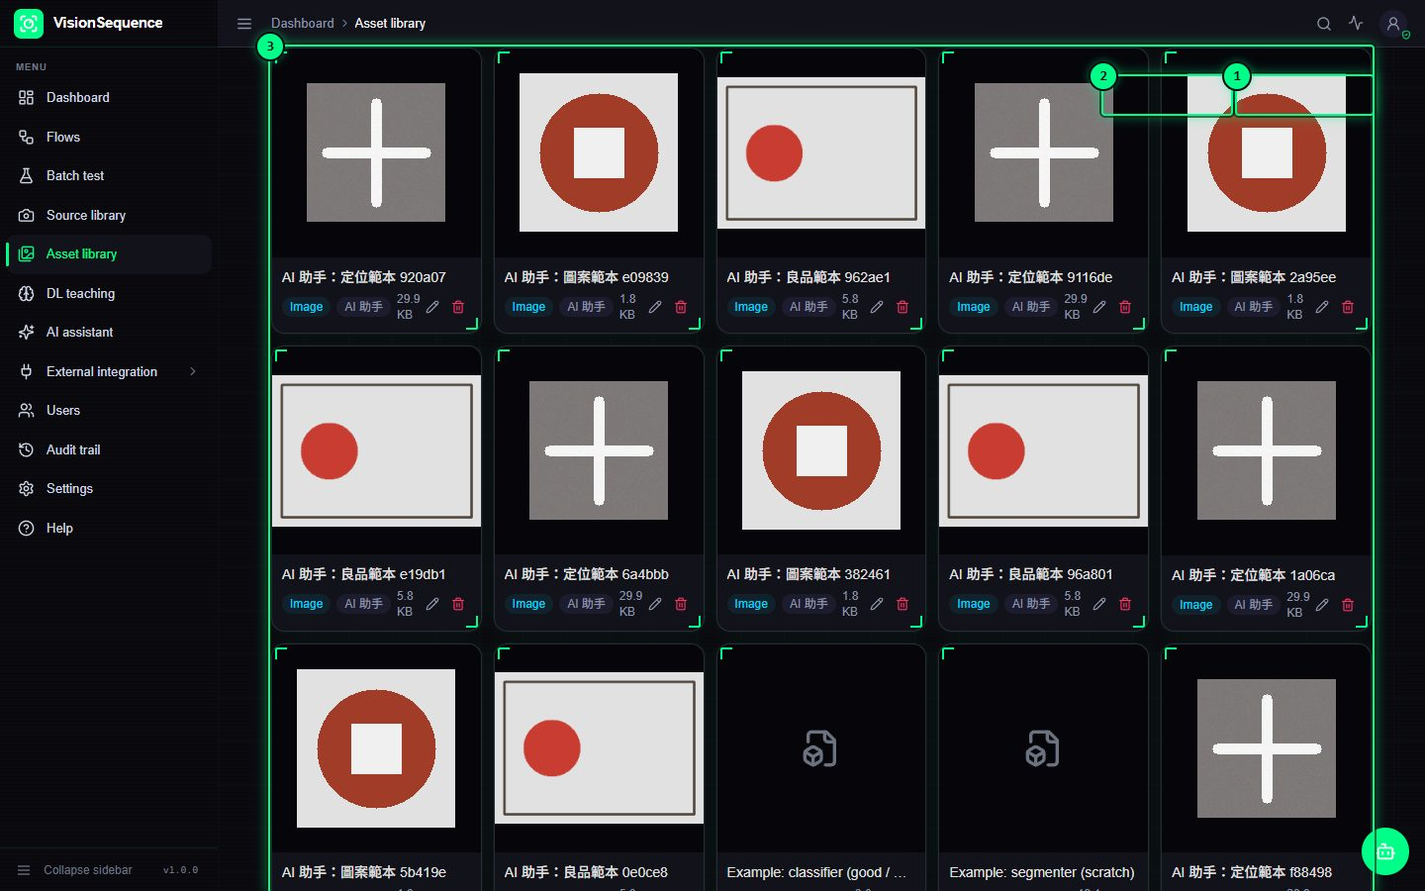
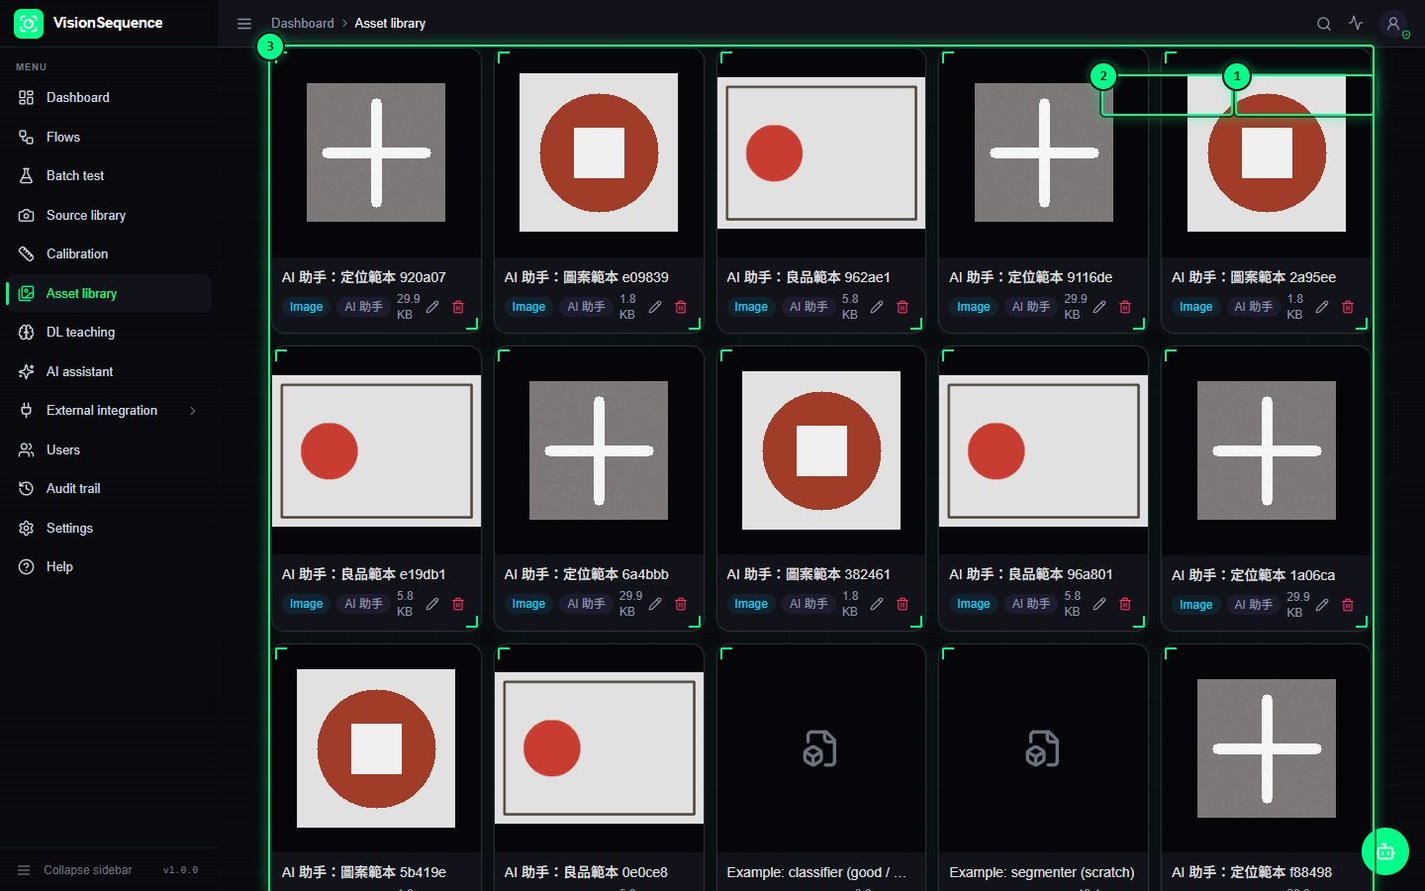
[VisionSequence] 標定 3/3 文件：使用者手冊加標定一節（含截圖與編號標記），檢測功能頁把畸變標定從「未實作」改成已做。
為什麼：手冊是圖文並用的，新頁面沒有圖就對不上；檢測功能頁還寫著「鏡頭畸變標定留給外掛或之後的版本」，
現在已經內建了，留著會誤導。

做了什麼：
- docs/user-guide.html §10-2「Calibration」：截圖＋7 個編號標記，說明三種做法各適合什麼情況、
  為什麼要先看誤差再存、標點會自動吸附、一份標定同時餵三個工具（重新標定整站流程一起更新）、
  相機動過要重標、解析度不同會自動換算內參。
- docs/vision-capabilities.html §3 加兩列（鏡頭畸變標定、影像到真實座標）；§4 原本「畸變標定未實作」那一條
  改成講清楚真正沒做的是「相機裝在機械手上的手眼標定」以及為什麼那屬於機械手程式。
- scripts/docs_shots.mjs 加標定頁那一張，callouts 清單同步；重跑截圖（側欄多了一項，每頁都要重拍）。
  lock-banner 那張需要第二位管理員鎖住引擎，這次沒帶 VS_TOKEN2 所以沿用舊圖，清單保留該行。
- README 與 CLAUDE.md 的規模數字更新（72 工具／191 端點／19 頁／後端 636＋前端 97 測試），
  CLAUDE.md 新增「標定」與「格式化回覆」兩個小節，記下 payload 是唯一事實來源、最小平方不用 RANSAC、
  每點殘差是與 VM 的主要差異、內參隨影像尺寸換算、solve 只算不存這些接縫。

驗證：scripts/docs_style.py 重跑並 --check 回 0；截圖以 1440x900 產生並確認標定頁的 7 個標記都對到元件。

Changed region(s): [[0.0, 0.28, 0.125, 0.4667], [0.0, 0.4978, 0.0625, 0.56], [0.0, 0.5911, 0.0625, 0.6533]]

diff --git a/VisionSequence/docs/user-guide.html b/VisionSequence/docs/user-guide.html
@@ -144,7 +144,7 @@
 </head>
 <body>
 <nav class="site"><a href="index.html">Overview</a><a href="user-guide.html" aria-current="page">User guide</a><a href="workflow-design.html">Workflow design</a><a href="architecture.html">Architecture</a><a href="automation.html">Automation</a><a href="modbus.html">Modbus</a><a href="capture-client.html">Capture client</a><a href="deployment.html">Deployment</a><a href="dl.html">Deep learning</a><a href="agent.html">AI assistant</a><a href="batch.html">Batch testing</a><a href="golden.html">Golden Set</a><a href="vision-capabilities.html">Inspection capabilities</a><a href="samples.html">Example templates</a><a href="performance.html">Performance</a><a href="plugins.html">Plugins</a><a href="contract.html">Contract</a><a href="glossary.html">Glossary</a></nav>
-<div class="doc-layout"><aside class="toc" aria-label="本頁目錄"><p class="toc-title">本頁目錄</p><ul><li><a href="#shell">1. Getting around</a><ul><li><a href="#another-pc">1-1. Using the station from another PC</a></li></ul></li><li><a href="#login">2. Signing in, roles and permissions</a></li><li><a href="#flows">3. The Flows page and templates</a></li><li><a href="#editor">4. The flow editor</a></li><li><a href="#tool">5. The tool page and ROIs</a></li><li><a href="#teach">6. The teach page, on-site parameters and recipes</a></li><li><a href="#run">7. Preview, run, continuous and statistics</a></li><li><a href="#batch">8. Batch testing</a></li><li><a href="#golden">9. The Golden Set</a></li><li><a href="#sources">10. Image sources</a><ul><li><a href="#sources-capture">When the camera is on another PC, or needs a Basler or IDS SDK</a></li></ul></li><li><a href="#assets">11. Assets</a></li><li><a href="#dl">12. Deep-learning teaching</a></li><li><a href="#agent">13. The AI assistant page: a flow from an image</a></li><li><a href="#assistant">14. The global assistant (on every page)</a></li><li><a href="#integration">15. Integration</a></li><li><a href="#lock">16. The engine lock</a></li><li><a href="#admin">17. Audit trail, settings and help</a></li><li><a href="#faq">18. Common questions</a></li></ul></aside><article class="doc">
+<div class="doc-layout"><aside class="toc" aria-label="本頁目錄"><p class="toc-title">本頁目錄</p><ul><li><a href="#shell">1. Getting around</a><ul><li><a href="#another-pc">1-1. Using the station from another PC</a></li></ul></li><li><a href="#login">2. Signing in, roles and permissions</a></li><li><a href="#flows">3. The Flows page and templates</a></li><li><a href="#editor">4. The flow editor</a></li><li><a href="#tool">5. The tool page and ROIs</a></li><li><a href="#teach">6. The teach page, on-site parameters and recipes</a></li><li><a href="#run">7. Preview, run, continuous and statistics</a></li><li><a href="#batch">8. Batch testing</a></li><li><a href="#golden">9. The Golden Set</a></li><li><a href="#sources">10. Image sources</a><ul><li><a href="#sources-capture">When the camera is on another PC, or needs a Basler or IDS SDK</a></li><li><a href="#calibration">10-2. Calibration: millimetres, lens distortion and robot coordinates</a></li></ul></li><li><a href="#assets">11. Assets</a></li><li><a href="#dl">12. Deep-learning teaching</a></li><li><a href="#agent">13. The AI assistant page: a flow from an image</a></li><li><a href="#assistant">14. The global assistant (on every page)</a></li><li><a href="#integration">15. Integration</a></li><li><a href="#lock">16. The engine lock</a></li><li><a href="#admin">17. Audit trail, settings and help</a></li><li><a href="#faq">18. Common questions</a></li></ul></aside><article class="doc">
 
 <h1>User guide</h1>
 <p>This guide follows the sidebar from top to bottom: where each page is, what is on it, and what to press. Every section opens with a screenshot; the numbered markers on the picture match the numbered list under it. The screenshots show the English interface; the Chinese interfaces have the same layout with translated labels. The Help page inside the product carries a condensed version of the same material plus the tool catalogue.</p>
@@ -326,6 +326,23 @@
 <h3 id="sources-capture">When the camera is on another PC, or needs a Basler or IDS SDK</h3>
 <p>You do not have to move the camera to the server. Use "Download capture client", unzip and run <code>VisionSequenceCapture.exe</code> on the camera's PC, fill in the server address (port 9100) and a client name under Connection, then add the camera as a channel, open it and start acquiring (you can draw an ROI on the preview to send only that region, and adjust and save camera parameters). Back in the web interface, add a source of kind "capture client camera", pick the client and the channel, choose "on demand" (a fresh frame for every run) or "continuous stream", and press Test grab before saving. The status column shows whether the client is online, its fps and the age of the last frame; Integration › Capture client lists every connected client and lets you turn streaming on and preview. On the same machine it uses shared memory automatically; across machines it is lossless over TCP. "Capture client offline" in the list means the program is not connected. Details in <a href="capture-client.html">Capture client</a>.</p>
 <p><strong>A capture client camera times out during a run</strong>: first check on the client that the channel says it is acquiring and the preview is live. A camera in trigger mode needs a trigger signal. With a long exposure, or across a network, increase the source's timeout in milliseconds. Turning off "require a fresh frame" lets it use whatever frame the client already has.</p>
+
+<h3 id="calibration">10-2. Calibration: millimetres, lens distortion and robot coordinates</h3>
+<figure class="shot"><img src="img/calibration.jpg" alt="The Calibration page"><figcaption><b>Calibration</b> (sidebar &rsaquo; Calibration, route <code>/calibration</code>)
+<ol class="callouts">
+<li data-n="1">The three ways to teach it, and what each one gives you. <strong>Calibration board</strong>: a few pictures of a printed board give the lens correction and the scale together. <strong>Robot points</strong>: mark places in the picture and type the coordinates your robot reports, so a position can be handed straight to the robot. <strong>Known distance</strong>: mark two points, type how far apart they really are, done.</li>
+<li data-n="2">The <strong>image source</strong> to take pictures from; you can also upload photos taken earlier.</li>
+<li data-n="3"><strong>Capture</strong> takes a picture. In board mode every picture is searched for the board straight away and listed with the number of points found, so you see immediately whether that angle worked.</li>
+<li data-n="4">The <strong>board</strong>: pattern, and its size in <em>inner corners</em> (a board of 10 x 7 squares is 9 x 6) plus the spacing between two neighbours. Get these wrong and no board is found; the page says so rather than failing silently.</li>
+<li data-n="5">The <strong>unit</strong> your drawings and your robot use.</li>
+<li data-n="6"><strong>Calculate</strong> works it out but does <em>not</em> save it: you first see how well it fits.</li>
+<li data-n="7"><strong>Save calibration</strong> stores it as an asset. Pick it afterwards in the Lens correction, Real-world coordinates or Pixel calibration step.</li>
+</ol></figcaption></figure>
+<p><strong>Which way to use.</strong> If you only need measurements in millimetres, <em>Known distance</em> takes a minute: mark two points on something you have measured, type the distance. If the lens visibly bows straight edges near the corners, or the same part measures differently in the middle and at the edge of the field, use a <em>calibration board</em> &mdash; take three or more pictures with the board tilted and at different distances, filling the frame. If a robot has to go and pick the part up, use <em>Robot points</em>: jog the robot to three or more spots you can see, and type the coordinates it reports at each one.</p>
+<p><strong>Read the error before you save.</strong> Every method reports how well it fits. A board calibration shows the reprojection error per picture, so you can delete the one that was blurred and calculate again. Robot points show the error of <em>each</em> point, and the worst one is marked red on the image &mdash; usually that is where the robot was jogged to the wrong place or a coordinate was typed wrong. The result carries a plain verdict: good, fair, or do it again.</p>
+<p><strong>Marking points is forgiving.</strong> Click near a hole, a printed dot or a corner and the mark snaps to its centre, so you do not have to hit the exact pixel. Turn that off if you really want the spot you clicked.</p>
+<p><strong>Using it in a flow.</strong> One saved calibration serves all three steps: <em>Lens correction</em> straightens the picture (put it right after the image source, before anything that measures), <em>Pixel calibration</em> in "from a calibration" mode converts a length to millimetres, and <em>Real-world coordinates</em> converts a position to the coordinates your machine works in, along with lengths and angles. Because they all read the same asset, recalibrating the station updates every flow at once &mdash; you do not go hunting for the number typed into each step.</p>
+<p>If the camera is later moved, refocused or swapped, calibrate again. A calibration made at full resolution still works when the flow runs at half resolution: the lens correction is rescaled automatically, and if the aspect ratio differs the step says so instead of quietly correcting the wrong amount.</p>
 
 <h2 id="assets">11. Assets</h2>
 <figure class="shot"><img src="img/assets.jpg" alt="The Asset library"><figcaption><b>Asset library</b> (sidebar › Asset library, route <code>/assets</code>)

diff --git a/VisionSequence/docs/vision-capabilities.html b/VisionSequence/docs/vision-capabilities.html
@@ -198,6 +198,8 @@
 <tr><td>Analytic geometry</td><td><code>distance</code>, <code>angle</code> and <code>geometry</code> (<strong>new</strong>: line intersection, point-to-line distance, midpoint, projection)</td><td>original plus new</td></tr>
 <tr><td>Fitting a line, circle or ellipse</td><td><code>find_line</code>, <code>fit_arc</code> (Taubin plus geometric refinement), <code>fit_ellipse</code> (direct fit)</td><td>original, accuracy improved</td></tr>
 <tr><td>Perspective calibration (flattening)</td><td><code>warp_perspective</code> (four points to a rectangle); scale conversion is <code>calibration</code></td><td><strong>added</strong></td></tr>
+<tr><td>Lens distortion calibration</td><td><code>undistort</code> with a calibration made from board pictures on the Calibration page (intrinsics and distortion coefficients; the camera matrix is rescaled when the running resolution differs)</td><td><strong>added</strong></td></tr>
+<tr><td>Image to real-world coordinates</td><td><code>to_world</code>: positions, lengths and angles into millimetres or robot coordinates, from a board, from image-to-robot point pairs (affine or perspective, least squares with the residual of every point) or from a known distance</td><td><strong>added</strong></td></tr>
 <tr><td>Golden template comparison</td><td><code>defect_diff</code> with phase alignment, plus the Golden Set regression page</td><td>original</td></tr>
 <tr><td>Barcodes (1D, DataMatrix, PDF417)</td><td><code>barcode</code>, using whichever decoder backend is installed</td><td>original</td></tr>
 <tr><td>Classification</td><td><code>dl_classify</code>, trained inside the platform</td><td>original</td></tr>
@@ -210,7 +212,7 @@
 <ul>
 <li><strong>Geometric matching, colour pattern matching, colour location</strong>: large algorithms, and <code>template_match</code> together with the deep-learning tools already covers most of what they are used for. Bring one in as a plugin tool when you need it (<a href="plugins.html">Plugins</a>).</li>
 <li><strong>OCR and character verification, instrument readers (meters, LCDs)</strong>: the modern answer is deep learning — train one on the teaching page, or plug in an OCR engine. <code>text_presence</code> covers the lightweight "is anything printed here" check.</li>
-<li><strong>Non-linear lens distortion calibration (error maps, correction tables)</strong>: this needs a calibration-target workflow. For now <code>warp_perspective</code> handles perspective and <code>calibration</code> handles scale; distortion calibration is left to a plugin or a later release.</li>
+<li><strong>Hand-eye calibration for a moving camera</strong> (camera on the robot arm): the platform calibrates a <em>fixed</em> camera against the plane the parts sit on, which is what an inspection station needs. A camera that travels with the arm needs the robot pose at each shot, so that pairing belongs to the robot program; feed the pairs in as robot points per position, or do it in a plugin.</li>
 <li><strong>Freehand ROIs</strong>: see §1.</li>
 <li><strong>The complex image type</strong>: it exists only inside <code>fft_filter</code> and is not a port type, which keeps the dataflow simple.</li>
 </ul>

diff --git a/VisionSequence/CLAUDE.md b/VisionSequence/CLAUDE.md
@@ -6,13 +6,13 @@
 
 - **是什麼**：類 VisionMaster 的畫布式工業機器視覺平台。使用者在瀏覽器拉工具節點、畫 ROI、調參看結果；PLC／上位機以 HTTP／TCP／Modbus 觸發並取回 OK/NG 與量測值。
 - **技術棧**：Django 5.1 + django-ninja + OpenCV/numpy（後端）；React 19 + Vite + TS + Tailwind v4 + @xyflow/react + TanStack Query + i18next（前端）；SQLite 預設。
-- **規模**：68 個內建工具（8 類）、184 個 API 端點、27 個資料模型、18 個前端頁面（另 6 個整合子頁）、18 頁 docs、後端 515 項＋前端 57 項測試；Python 約 28k 行（不含 migrations；另 vscapture 擷取端約 7.2k 行）、TS 約 26k 行。
+- **規模**：72 個內建工具（8 類）、191 個 API 端點、27 個資料模型、19 個前端頁面（另 7 個整合子頁）、18 頁 docs、後端 636 項＋前端 97 項測試；Python 約 28k 行（不含 migrations；另 vscapture 擷取端約 7.2k 行）、TS 約 26k 行。
 - **核心概念**：
   - 流程 = `Flow.graph`（JSON：nodes/edges）。工具節點有型別化埠；`_flow` 隱含輸入埠＝控制分支、`_overlays` 隱含輸出埠＝該節點標記、`_image` 隱含直通埠＝每個工具預設可把影像原樣傳出。
   - 引擎是**資料流 DAG**：一次 run 在執行緒池的一條執行緒內以拓樸順序跑完，影像以 numpy 在記憶體傳；overlays 只是顯示層 metadata，不畫進影像。
   - **只能有一個 API 行程**（引擎狀態、影像快取、SSE bus 都在行程內）。`manage.py serve` = uvicorn workers=1 + TCP；`runserver` 只用來開發且加 `--noreload`。
   - 三種身分：使用者（登入 token）、整合方（API 金鑰、永遠可執行、可鎖引擎）、bootstrap（沒有任何使用者時放行 `/auth/setup`）。
-- **目錄**：`config/`（settings：`VISION` dict 全部走 .env；`api.py` 掛 Router）、`apps/core`（錯誤、外掛掃描）、`apps/accounts`（身分、鎖定、偏好）、`apps/vision`（models / graph / engine / runner / images / api* / stream / tcp_server / sources / tools / dl / agent / demo）、`apps/comm`（Modbus 等主動輸出）、`apps/golden`（回歸）、`apps/vision/capture`（擷取端 hub／Grabber／API）、`vscapture/`（擷取端桌面程式，不 import Django）、`plugins/`（資料夾外掛）、`frontend/`、`tests/`、`docs/`、`scripts/`（dev.ps1／stop.ps1／bench_tools.py／build_capture_client.ps1；發行與現場：build_release.ps1／build_dl_pack.ps1／installer.iss／install.ps1／vsctl.ps1／service.ps1／proxy.ps1／vslib.ps1）。
+- **目錄**：`config/`（settings：`VISION` dict 全部走 .env；`api.py` 掛 Router）、`apps/core`（錯誤、外掛掃描）、`apps/accounts`（身分、鎖定、偏好）、`apps/vision`（models / graph / engine / runner / images / api* / calib / stream / tcp_server / sources / tools / dl / agent / demo）、`apps/comm`（Modbus 等主動輸出）、`apps/golden`（回歸）、`apps/vision/capture`（擷取端 hub／Grabber／API）、`vscapture/`（擷取端桌面程式，不 import Django）、`plugins/`（資料夾外掛）、`frontend/`、`tests/`、`docs/`、`scripts/`（dev.ps1／stop.ps1／bench_tools.py／build_capture_client.ps1；發行與現場：build_release.ps1／build_dl_pack.ps1／installer.iss／install.ps1／vsctl.ps1／service.ps1／proxy.ps1／vslib.ps1）。
 - **一次執行的路徑**：觸發 → `Runner.compiled_for`（validate → apply_recipe → compile，快取鍵 `(version, recipe_id, updated_at)`）→ `_prefetch` 在呼叫者執行緒開來源／資產 → 執行緒池 `engine.execute`（`ToolContext.image()` 依 `accepts` 做位深 coerce）→ 影像進 `images.store`、`RunReport` → SSE／統計／背景批次寫 `FlowRun`。
 - **前端接縫**：頁面只透過 `lib/api.ts`（`BASE_URL`＝`VITE_API_BASE_URL` 或 `/api`）、`lib/queries.ts`、`lib/flowStream.ts` 與後端往來，不直接 fetch；各頁 lazy chunk；跨頁草稿在 `lib/flowDraft.ts`。
 - **文件**：`README.md`（全貌）、`docs/*.html`（**全英文**，18 頁：使用者手冊、設計手冊、合約、自動化、Modbus、擷取端、部署維運、檢測功能、範例樣板、AI 助手、DL、批次、Golden、外掛、名詞規範、效能）。
@@ -101,6 +101,31 @@
 ### 資料夾外掛（plugins/）
 - **外掛頁** `/integration/plugins`：`apps/core/plugins.py` 每個檔案的載入結果記在 `_inventory`（status ok／disabled／error／empty、mounted、error 含 pip 提示），`GET /vision/plugins`（integration 功能）讀清單、`POST /vision/plugins/rescan`（管理員）只掛新檔與重試失敗的——**已載入的檔案改了要重啟**（Python 模組不能安全熱重載）。前端 `pages/integration/PluginsPage.tsx`；外掛提供的連線種類在該頁的「連線」分頁。
 - 繼承 `Tool`／`Grabber`／`Writer`／`Trainer` 的單檔或資料夾型模組丟進 `plugins/` 即自動掛載（`apps/core/plugins.py`；不用改 .env）。外掛內 `ENABLED`／`enabled`／`label`／`description` 控制掛載與顯示；key／kind 重複時內建優先。外掛依賴附 requirements.txt（`dev.ps1 -Setup` 自動安裝）；Python 版本不一致走 sidecar，見 docs/plugins.html。範例：`plugins/example_dark_ratio.py`、`plugins/example_csv_writer.py`。
+
+### 標定（apps/vision/calib.py、api_calib.py、前端 /calibration）
+- **一份標定＝一個資產**（`Asset.kind="calibration"`，內容是 JSON 檔，走既有的 `ctx.asset_path`，沒有新 model、沒有 migration）。
+  payload 兩塊都是選配：`lens`（內參＋畸變係數）與 `world`（像素→世界的 3x3，kind＝scale／affine／perspective）。
+  刻意合成一份而不是分兩種檔案——現場只要在工具上選一個標定，畸變校正、量測換算、座標輸出就都對了。
+- `calib.validate()` 是 payload 的唯一事實來源（存檔與載入都過）；`load()` 依 mtime 快取（熱路徑每張影像都呼叫）；
+  `undistort()` 的映射表另外快取；改 payload 結構要同步 `validate`、`summary`、`quality` 與前端的 `WorldBlock`／`LensBlock`。
+- **解算一律最小平方，不用 RANSAC**：標定點是使用者一個個指定的，不該被悄悄丟掉；回傳**每個點的殘差**（`world.points[].error`），
+  前端把最大的那一點標紅。這是與 VM 最主要的差異，別為了簡化而拿掉。
+- `scaled_camera_matrix()`：影像尺寸與標定當下不同時自動換算內參（binning、換解析度），長寬比不同就明講不能換算而不是靜默校正錯。
+- 三個工具吃同一個資產：`undistort`（preprocess）、`to_world`（measure）、`calibration` 的 `asset` 模式。
+  `read_calibration()` 在 preprocess.py，measure.py 從那裡 import。
+- API `POST /vision/calibration/{capture,detect,snap,solve}`＋`POST/GET /vision/calibration/assets`：
+  **solve 只算不存**，使用者看過殘差才按儲存；`snap` 把點擊處吸附到附近特徵的中心（Otsu＋連通元件，挑包含點擊點的那一團）。
+- 前端 `/calibration` 三種模式共用一個 `ImageViewer`（`onPick` 標點）；標定板模式逐張顯示找到的點數與重投影誤差可刪除重算。
+
+### 格式化回覆（format_text 工具、TCP `fmt=`、HTTP `format=`）
+- 舊 PLC 與上位機解析不了 JSON。`format_text`（output 類）用樣板組一行文字：`{名字}` 取值的來源依序是
+  具名輸出 → 觸發帶進來的引數（lot／sn）→ 本節點輸入 a~d，另有 `run_id`／`station`；支援 `{width:.2f}` 這種格式規格；
+  使用者在欄位裡打的 `
+`／`	` 會轉成真的控制字元；填不到的名字預設留空（產線優先），可改成保留原樣或讓步驟失敗。
+  結果同時放進具名輸出（`name` 參數，預設 `text`）。
+- 設備端要純文字就 `RUN <flow> fmt=<name>`（TCP，回應不再包 JSON——`handle_command` 回 `{"_raw": ...}`，`_Handler` 原樣送出）
+  或 HTTP `{"format": "<name>"}`（回 `text/plain`）。沒有那個具名輸出時**仍回 JSON 錯誤** `no_such_output` 並列出有哪些名字，
+  設備才診斷得出是自己設錯。要主動推出去就把 `text` 接到 `write_modbus` 指向 `tcp_client` 連線。
 
 ### 這一站的摘要（apps/vision/summary.py）
 - `GET /vision/summary` 回這一站的良率摘要（station_id、版本、鎖定、每條流程今日 OK/NG/良率）；數字讀**每小時彙總** `FlowRunHourly`，與統計頁同一份。

diff --git a/VisionSequence/README.md b/VisionSequence/README.md
@@ -10,7 +10,7 @@
 | 後端 | Django 5.1 + django-ninja + OpenCV／numpy／scipy（可選 onnxruntime、torch/ultralytics、anthropic） |
 | 前端 | React 19 + Vite + TypeScript + Tailwind v4 + @xyflow/react（React Flow）+ TanStack Query + i18next |
 | 執行 | 單一行程：uvicorn（HTTP + SSE）＋ TCP 介面同行程；資料流 DAG 引擎在執行緒池內跑，影像以 numpy 在記憶體傳遞 |
-| 規模 | 68 個內建工具、184 個 API 端點、27 個資料模型、18 個前端頁面（另 6 個整合子頁）、18 頁文件、後端 515 項＋前端 57 項自動測試；擷取端桌面程式（vscapture，PySide6） |
+| 規模 | 72 個內建工具、191 個 API 端點、27 個資料模型、19 個前端頁面（另 7 個整合子頁）、18 頁文件、後端 636 項＋前端 97 項自動測試；擷取端桌面程式（vscapture，PySide6） |
 
 ---
 
@@ -72,7 +72,7 @@ cd frontend && npm install && npm run dev         # http://127.0.0.1:5173
 - **批次測試頁／Golden Set**：獨立頁面選流程、建立影像集（上傳或來源擷取，≤200 張）批量執行並暫存每次逐張結果；標記期望 OK／NG 得命中率與混淆矩陣，洞察卡給建議門檻、輸出分佈與歷次趨勢；調參重跑同一影像集並逐張比較，滿意後寫回流程／存為配方／帶回編輯器；右下角的全域 AI 助手可依資料諮詢或調整、調參面板可自動調參（結果成為新執行）。案例可存入 Golden Set 作回歸基準，`manage.py regress` 可進 CI。
 - **統計**（`/flows/:id/stats`）：執行歷史、良率趨勢、每小時 OK/NG。
 
-### 內建工具（61 個，8 類）
+### 內建工具（72 個，8 類）
 | 類別 | 工具 |
 |---|---|
 | 影像來源（1） | image_source |
